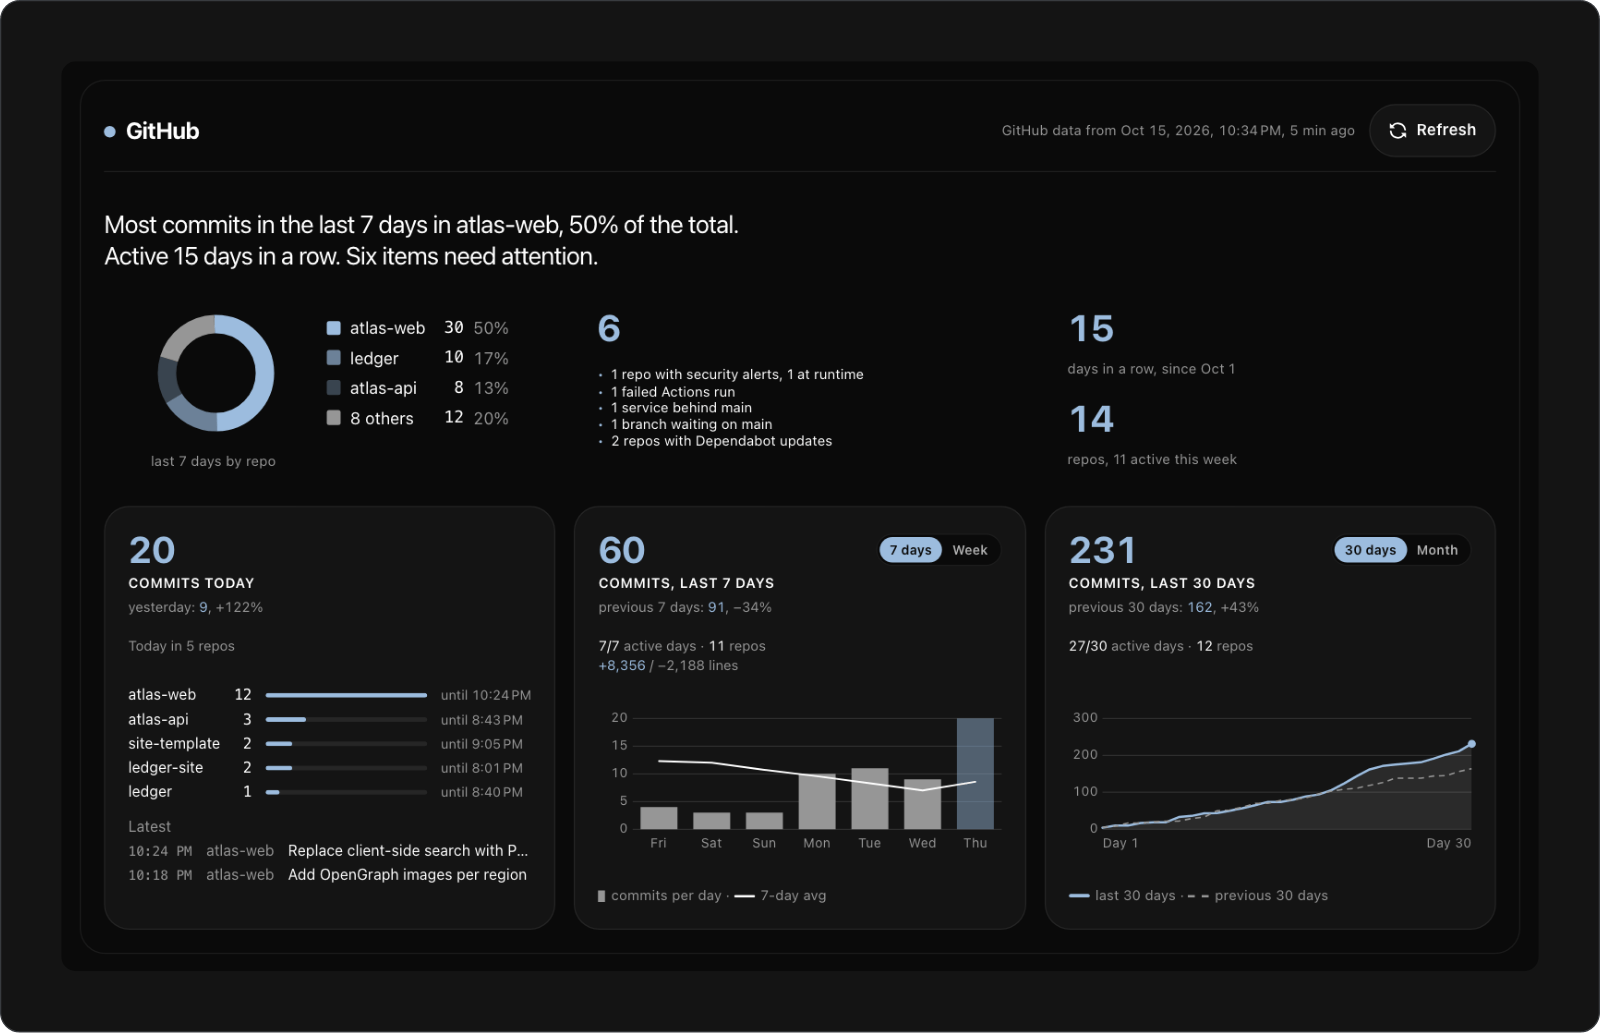
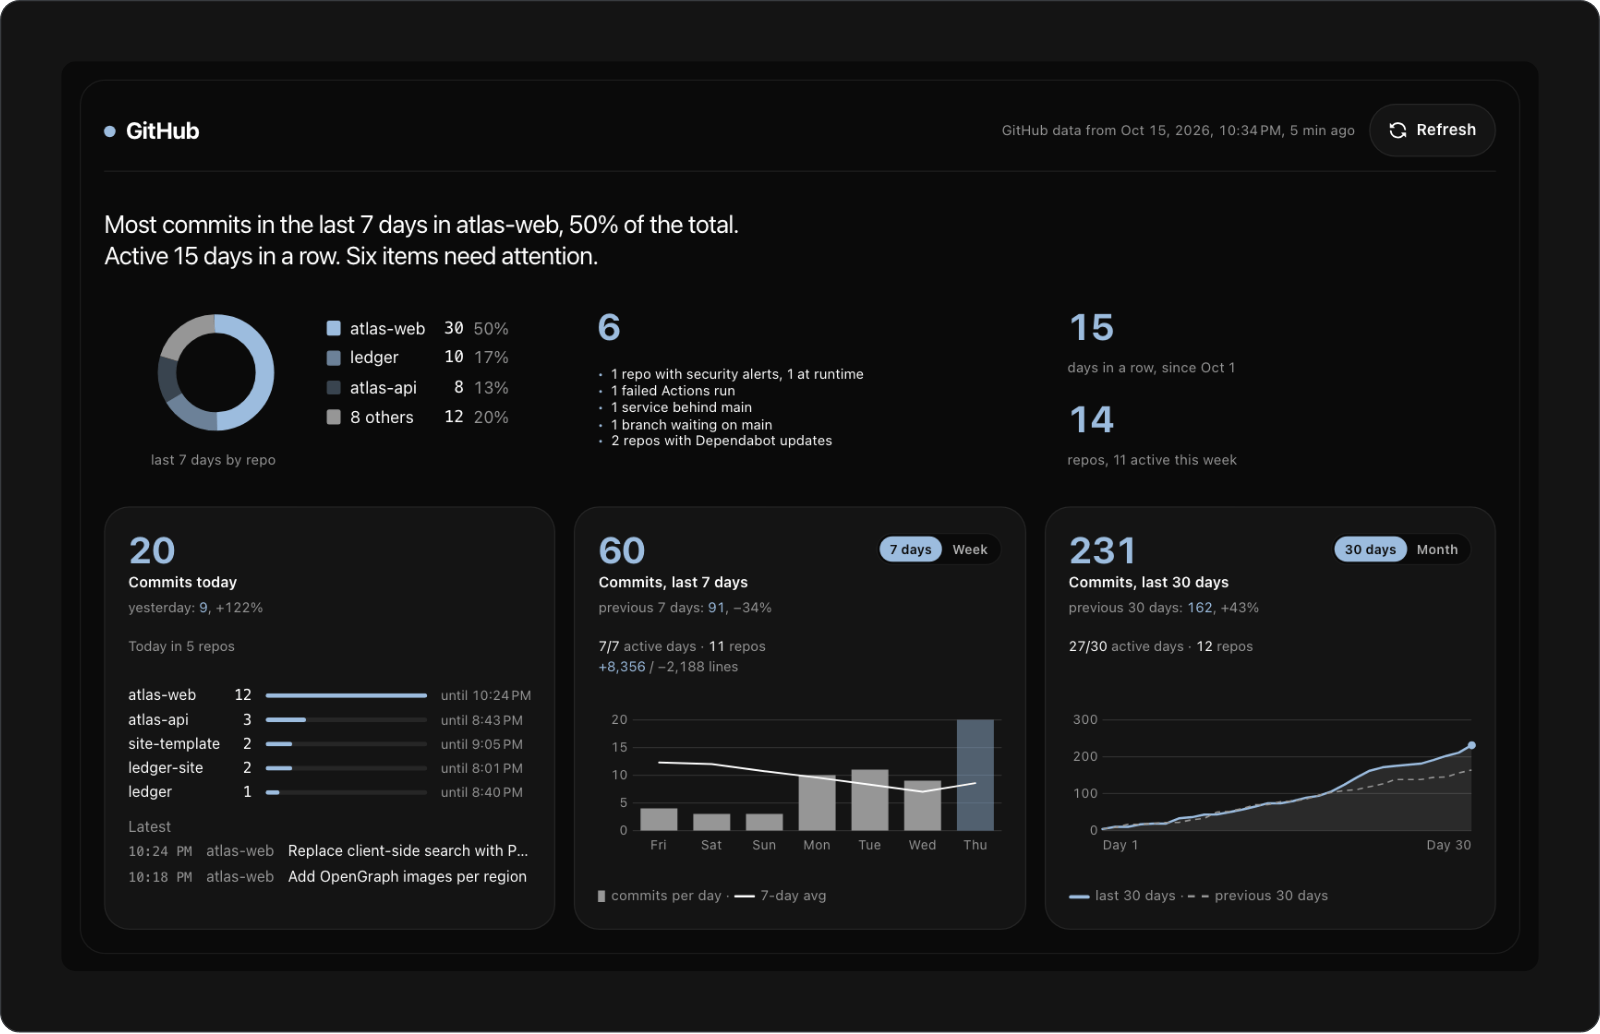
README screenshots from the demo data at v2.5.1
Server zone with nat and raw compared ("same") instead of "not compared", titles in
sentence case since 2.4.1; same file names and crops, 1280 px viewport, palette-reduced.
The alt text of the server zone names the comparison.

diff --git a/README.md b/README.md
@@ -46,7 +46,7 @@ Rules in INPUT and DOCKER-USER per IP family, whether they survive a reboot, and
 
 <picture>
   <source media="(prefers-color-scheme: dark)" srcset="docs/screenshots/server-zone-dark.png">
-  <img alt="Server zone: a summary sentence, one update to pull by hand, five services each with a green dot and its last run, and four cards: Machine with product, host, load, memory, disk, cores and boot time; Installed with Docker, Compose, containerd, Tailscale, served ports, system and kernel; Firewall with seven INPUT and four DOCKER-USER rules for IPv4 and IPv6, netfilter-persistent active, nat and raw not compared; Updates with one upgradable package, one Docker update by hand, no restart required and unattended-upgrades active" src="docs/screenshots/server-zone-light.png">
+  <img alt="Server zone: a summary sentence, one update to pull by hand, five services each with a green dot and its last run, and four cards: Machine with product, host, load, memory, disk, cores and boot time; Installed with Docker, Compose, containerd, Tailscale, served ports, system and kernel; Firewall with seven INPUT and four DOCKER-USER rules for IPv4 and IPv6, netfilter-persistent active, the rules restored after the last restart, nat and raw the same as saved; Updates with one upgradable package, one Docker update by hand, no restart required and unattended-upgrades active" src="docs/screenshots/server-zone-light.png">
 </picture>
 
 ### Needs attention
